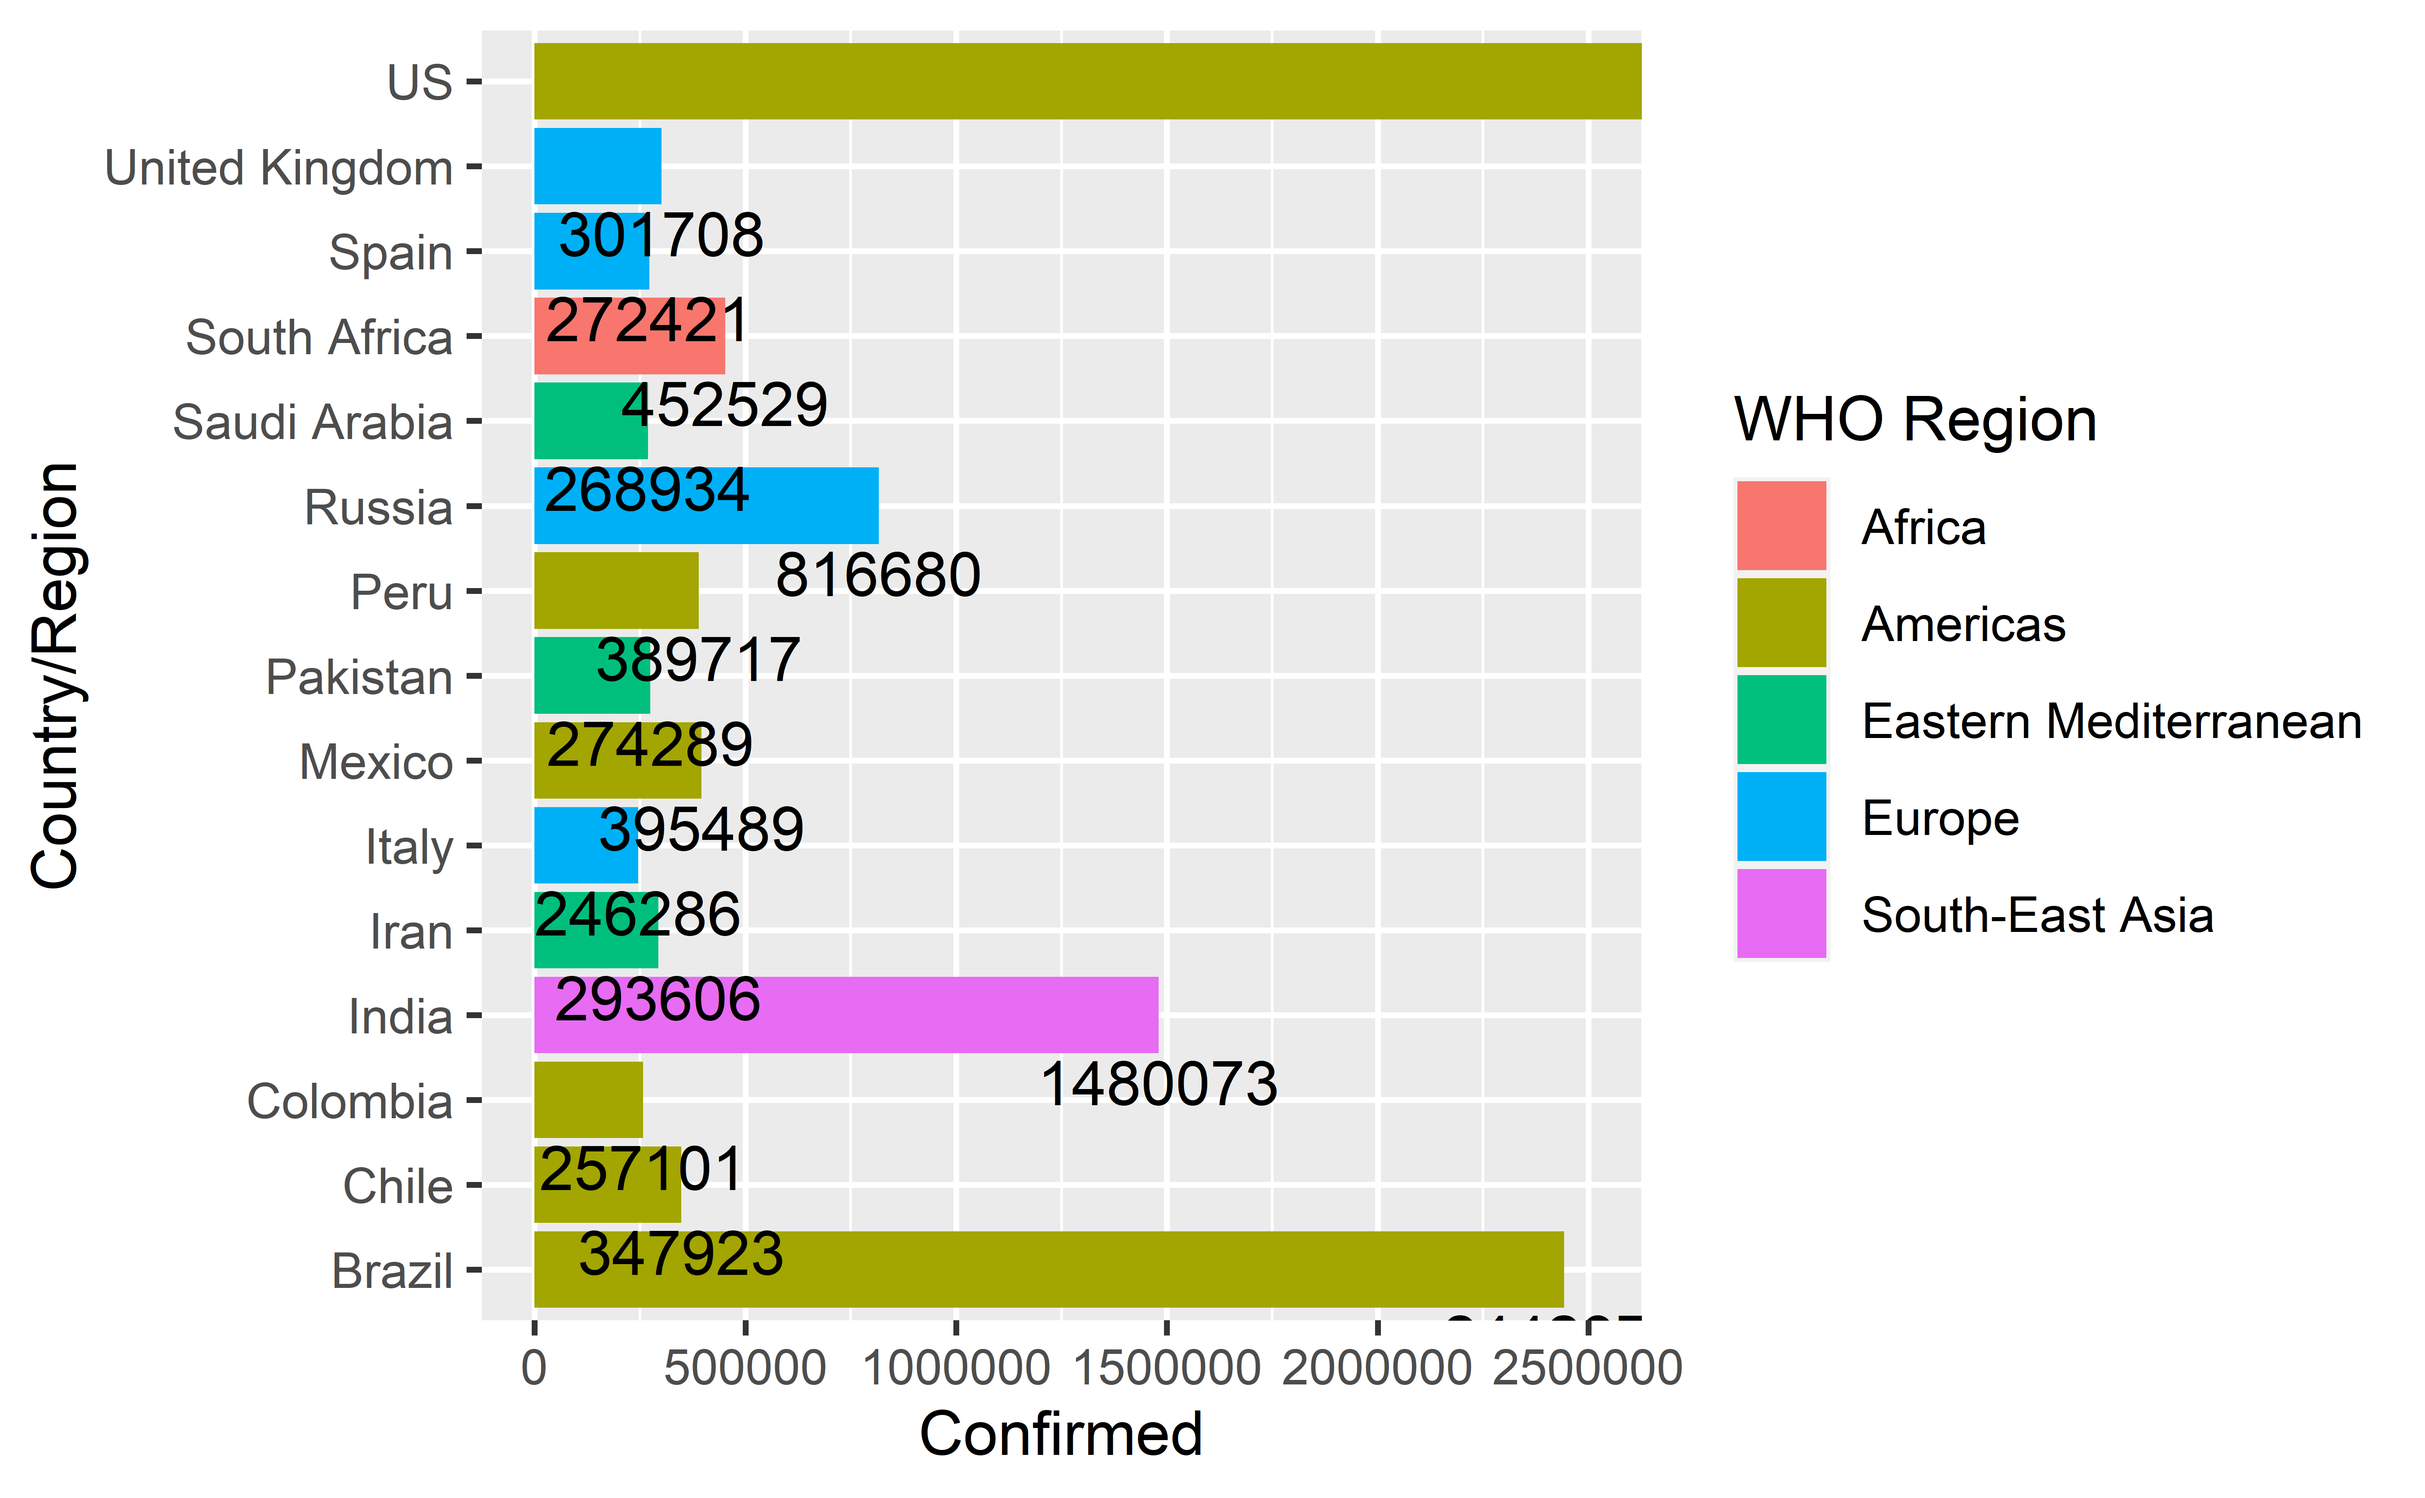
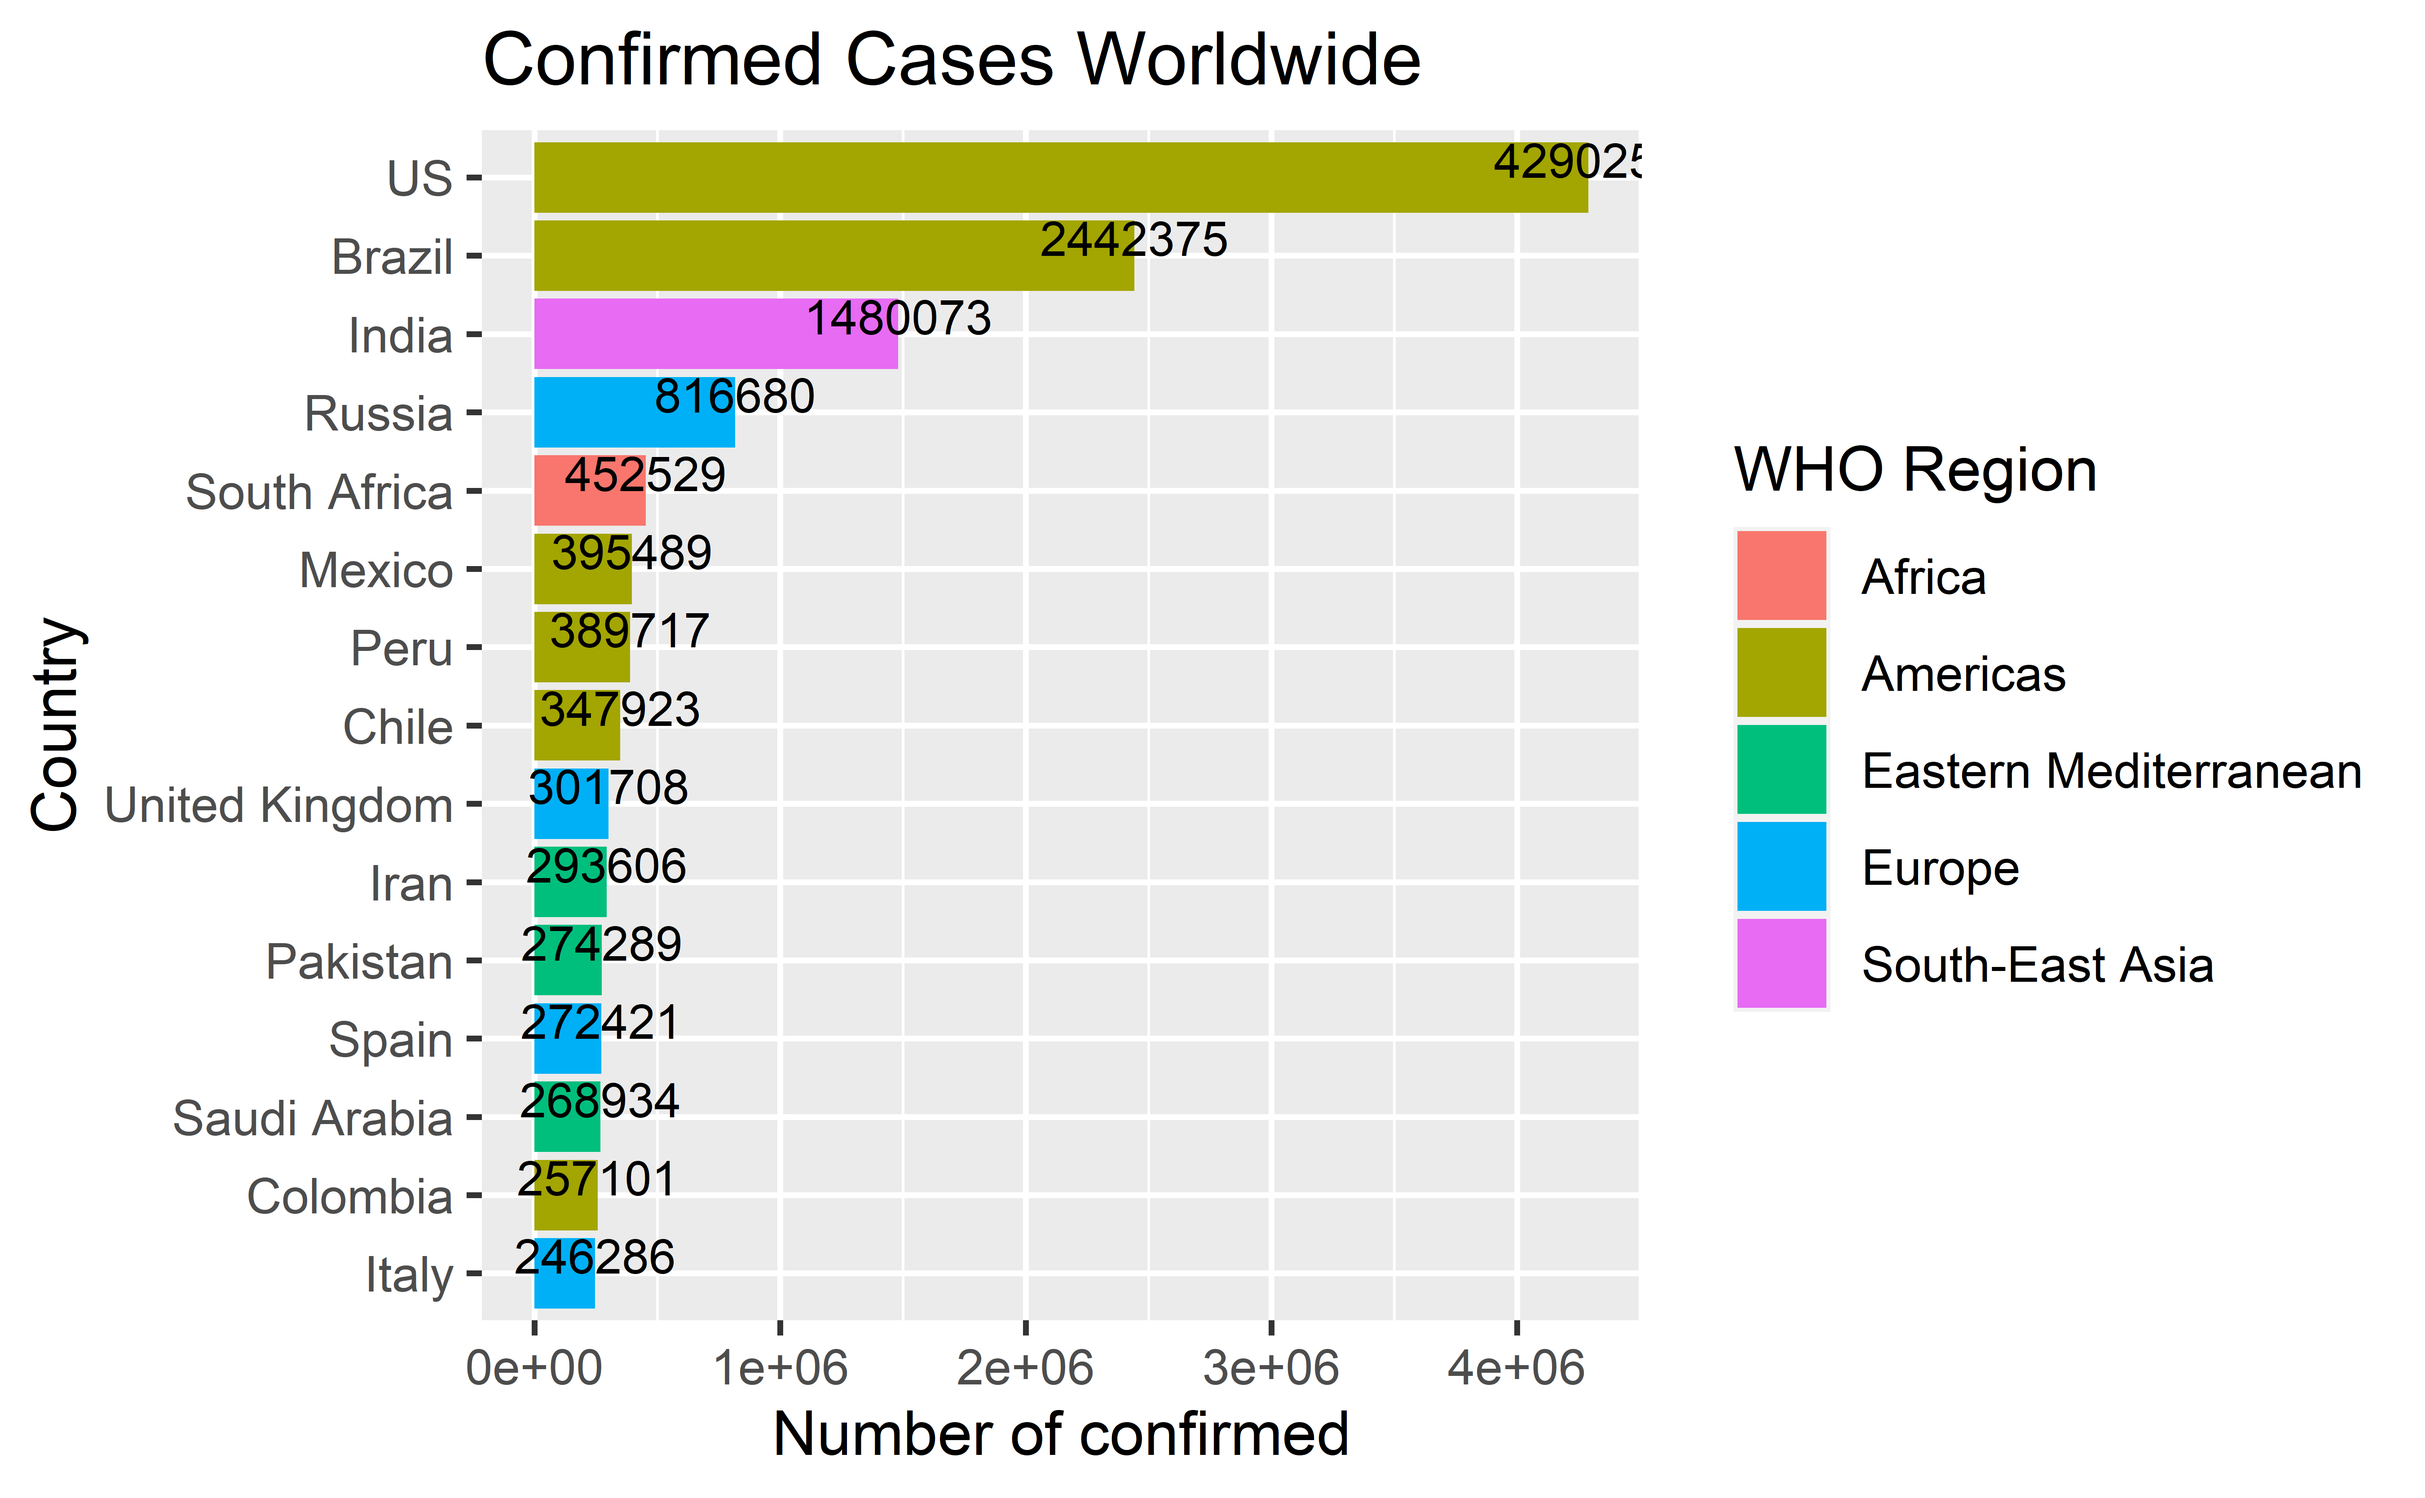
1

diff --git a/presentation.html b/presentation.html
@@ -4,19 +4,8 @@
     <title>COVID-19</title>
     <meta charset="utf-8" />
     <meta name="author" content="Du Shi,Zhe Xue,Kunning Zhang,Zhaojun Meng,Wenhui Zhang" />
-    <meta name="date" content="2022-11-25" />
-<<<<<<< HEAD
+    <meta name="date" content="2022-11-27" />
     <script src="libs/header-attrs-2.16/header-attrs.js"></script>
-=======
-<<<<<<< HEAD
-=======
-<<<<<<< HEAD
-    <script src="libs/header-attrs-2.16/header-attrs.js"></script>
-=======
->>>>>>> 1163a7f60c20a3508e5435fbc99f0ac4e382f354
-    <script src="libs/header-attrs-2.18/header-attrs.js"></script>
->>>>>>> f2d373e8f692bcd1d5e6472176d323d4b8d99341
->>>>>>> 1519c10f9744454afad53bb3036f30b1b9438c65
     <link rel="stylesheet" href="xaringan-themer.css" type="text/css" />
   </head>
   <body>
@@ -33,7 +22,7 @@ class: center, middle, inverse, title-slide
 ### University of Edinburgh
 ]
 .date[
-### 2022-11-25
+### 2022-11-27
 ]
 
 ---
@@ -144,16 +133,8 @@ class: inverse, middle, center
 
 ---
 
-<<<<<<< HEAD
 # Top 15 countries 
-=======
-# Confirmed Cases Over Time
-<<<<<<< HEAD
 &lt;img src="presentation_files/figure-html/unnamed-chunk-6-1.png" width="80%" /&gt;
-=======
->>>>>>> 1163a7f60c20a3508e5435fbc99f0ac4e382f354
-&lt;img src="presentation_files/figure-html/unnamed-chunk-4-1.png" width="80%" /&gt;
->>>>>>> 1519c10f9744454afad53bb3036f30b1b9438c65
 
 
 ---
